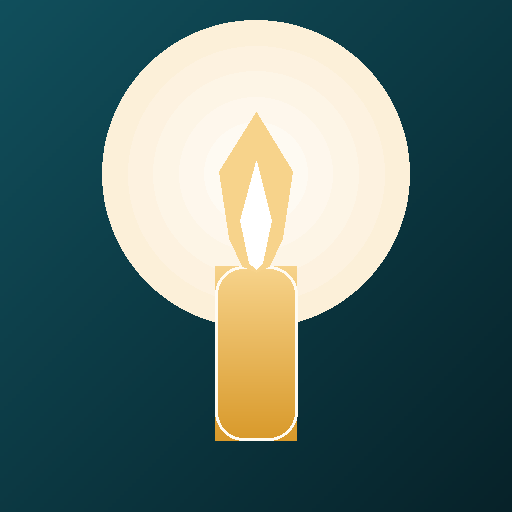
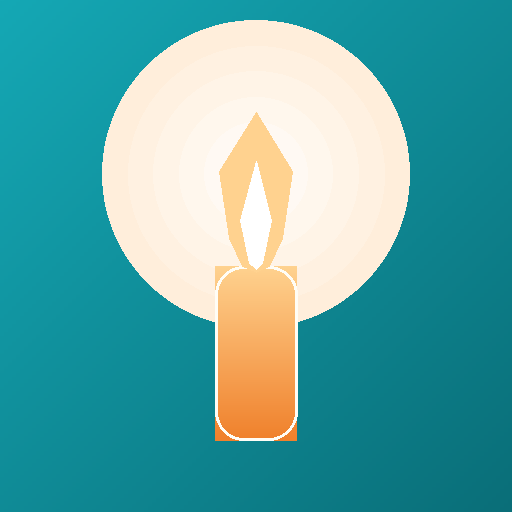
Colorful, cheerful redesign - brighter palette + per-category accent colors
Replaced the moody dark-navy/muted-gold palette (kept as backup at the
teal-gold-design tag) with a brighter turquoise + warm orange scheme,
plus a distinct accent color per category (icons, cover placeholders)
so the page reads as playful and varied rather than a single duotone.

Brightening the shared color scale broke several text/background
contrast pairs (button text, headings, eyebrow labels, hero text on
the lighter hero gradient). Added dedicated --teal-heading/--teal-ink/
--gold-ink tokens for text-on-light-background use, switched button
text to a plain dark ink, and gave the hero its own darker gradient
stops - verified every pair via pixel sampling / WCAG contrast math,
all now >=4.5:1 (or >=3:1 for large headings).

diff --git a/css/style.css b/css/style.css
@@ -1,27 +1,34 @@
 :root {
-  --ink: #1b2c30;
-  --ink-soft: #3c5157;
+  --ink: #23343a;
+  --ink-soft: #4c6067;
 
-  --teal-950: #072229;
-  --teal-900: #0b3b45;
-  --teal-850: #0e4652;
-  --teal-800: #114f5c;
-  --teal-700: #166473;
-  --teal-600: #1c7a8b;
-  --teal-500: #2f9aa3;
-  --teal-300: #8ecfd3;
-  --teal-200: #c7e7e9;
+  --teal-950: #0a6e78;
+  --teal-900: #0f8793;
+  --teal-850: #12959f;
+  --teal-800: #15a8b5;
+  --teal-700: #22bcc7;
+  --teal-600: #3fc9d3;
+  --teal-500: #63d5de;
+  --teal-300: #a8e9ee;
+  --teal-200: #d3f4f6;
 
-  --sand-50: #fffbf2;
-  --sand-100: #fbf2df;
-  --sand-200: #f4e6c8;
+  --sand-50: #fffdf6;
+  --sand-100: #fff5e2;
+  --sand-200: #ffe7bc;
 
-  --gold-700: #b57a1e;
-  --gold-600: #d99a2b;
-  --gold-500: #eab04a;
-  --gold-400: #f3bf5f;
-  --gold-300: #f7d38b;
-  --gold-100: #fdecc8;
+  --gold-700: #c85a1a;
+  --gold-600: #f0812c;
+  --gold-500: #ff9d47;
+  --gold-400: #ffb768;
+  --gold-300: #ffd28f;
+  --gold-100: #ffedcf;
+
+  /* Dark, WCAG-safe variants for text on light backgrounds - the scales
+     above are tuned bright for cheerful decorative use (buttons, icons,
+     gradients) and don't have enough contrast on their own for body text. */
+  --teal-heading: #0b6b76;
+  --teal-ink: #0a7681;
+  --gold-ink: #a8481a;
 
   --white: #ffffff;
 
@@ -87,7 +94,7 @@ h1, h2, h3 {
 
 .btn--primary {
   background: linear-gradient(135deg, var(--gold-400), var(--gold-600));
-  color: var(--teal-950);
+  color: var(--ink);
   box-shadow: 0 10px 24px -8px rgba(217, 154, 43, 0.6);
 }
 .btn--primary:hover { box-shadow: 0 14px 30px -8px rgba(217, 154, 43, 0.75); }
@@ -103,13 +110,13 @@ h1, h2, h3 {
   display: block;
   font-weight: 700;
   letter-spacing: 0.06em;
-  color: var(--gold-700);
+  color: var(--gold-ink);
   font-size: 0.95rem;
   margin-bottom: 0.6em;
 }
 .section-title {
   font-size: clamp(1.8rem, 4vw, 2.6rem);
-  color: var(--teal-900);
+  color: var(--teal-heading);
   margin-bottom: 0.5em;
   line-height: 1.25;
 }
@@ -119,7 +126,7 @@ h1, h2, h3 {
   position: sticky;
   top: 0;
   z-index: 40;
-  background: rgba(11, 59, 69, 0.92);
+  background: rgba(15, 135, 147, 0.92);
   backdrop-filter: blur(8px);
   border-bottom: 1px solid rgba(255, 255, 255, 0.08);
 }
@@ -145,7 +152,7 @@ h1, h2, h3 {
 }
 .brand__mark {
   font-size: 1.05em;
-  filter: drop-shadow(0 0 6px rgba(243, 191, 95, 0.55));
+  filter: drop-shadow(0 0 6px rgba(255, 183, 104, 0.55));
 }
 .site-nav { display: flex; align-items: center; gap: 1.4rem; }
 .site-nav a {
@@ -180,7 +187,7 @@ h1, h2, h3 {
 .install-banner__btn {
   flex-shrink: 0;
   background: var(--gold-400);
-  color: var(--teal-950);
+  color: var(--ink);
   border: none;
   border-radius: 999px;
   padding: 0.55em 1.1em;
@@ -215,7 +222,7 @@ h1, h2, h3 {
   margin: 0 auto;
 }
 .install-steps.is-open { display: block; }
-.install-steps h3 { font-size: 1.1rem; margin-bottom: 0.5em; color: var(--teal-900); }
+.install-steps h3 { font-size: 1.1rem; margin-bottom: 0.5em; color: var(--teal-heading); }
 .install-steps ol { margin: 0; padding-inline-start: 1.2em; line-height: 1.7; }
 .install-steps__close {
   position: absolute;
@@ -244,9 +251,9 @@ h1, h2, h3 {
   inset: 0;
   z-index: 0;
   background:
-    radial-gradient(55% 55% at 22% 20%, rgba(243, 191, 95, 0.20), transparent 60%),
-    radial-gradient(65% 60% at 82% 85%, rgba(142, 207, 211, 0.22), transparent 60%),
-    linear-gradient(160deg, var(--teal-950) 0%, var(--teal-900) 45%, var(--teal-700) 100%);
+    radial-gradient(55% 55% at 22% 20%, rgba(255, 183, 104, 0.28), transparent 60%),
+    radial-gradient(65% 60% at 82% 85%, rgba(168, 233, 238, 0.24), transparent 60%),
+    linear-gradient(160deg, #063d46 0%, #0a5c66 45%, #0f7f8c 100%);
 }
 .hero__content { position: relative; z-index: 2; width: 100%; max-width: 760px; }
 .hero__eyebrow {
@@ -343,7 +350,7 @@ h1, h2, h3 {
   justify-content: center;
   font-size: 1.35rem;
 }
-.cat-pill__title { font-weight: 700; color: var(--teal-900); margin: 0 0 0.2em; font-size: 1.02rem; }
+.cat-pill__title { font-weight: 700; color: var(--teal-heading); margin: 0 0 0.2em; font-size: 1.02rem; }
 .cat-pill__desc { margin: 0; font-size: 0.86rem; color: var(--ink-soft); line-height: 1.5; }
 
 /* ---------- Category sections ---------- */
@@ -376,7 +383,7 @@ h1, h2, h3 {
   font-size: 1.7rem;
   box-shadow: 0 8px 18px -4px rgba(0,0,0,0.3);
 }
-.category-section__title { font-size: clamp(1.5rem, 3.2vw, 2rem); color: var(--teal-900); margin: 0; }
+.category-section__title { font-size: clamp(1.5rem, 3.2vw, 2rem); color: var(--teal-heading); margin: 0; }
 .category-section__tagline {
   color: var(--ink-soft);
   font-size: 1.02rem;
@@ -389,7 +396,7 @@ h1, h2, h3 {
   align-items: center;
   gap: 0.5em;
   font-size: 0.86rem;
-  color: var(--teal-700);
+  color: var(--teal-ink);
   background: var(--teal-200);
   border: 1px dashed var(--teal-500);
   border-radius: 999px;
@@ -445,8 +452,8 @@ h1, h2, h3 {
   align-items: center;
   justify-content: center;
   background: linear-gradient(150deg, var(--teal-800), var(--teal-950));
-  color: var(--gold-300);
-  font-size: 3rem;
+  font-size: 3.4rem;
+  filter: drop-shadow(0 4px 10px rgba(0, 0, 0, 0.18));
 }
 
 .content-card__badge {
@@ -485,14 +492,14 @@ h1, h2, h3 {
   gap: 0.7rem;
 }
 .content-card__eyebrow {
-  color: var(--teal-600);
+  color: var(--teal-ink);
   font-weight: 700;
   font-size: 0.82rem;
   letter-spacing: 0.05em;
 }
 .content-card__title {
   font-size: clamp(1.25rem, 2.4vw, 1.55rem);
-  color: var(--teal-900);
+  color: var(--teal-heading);
   line-height: 1.3;
 }
 .content-card__desc {
@@ -501,7 +508,7 @@ h1, h2, h3 {
   font-size: 0.99rem;
   margin: 0;
 }
-.content-card__desc strong { color: var(--teal-800); }
+.content-card__desc strong { color: var(--teal-ink); }
 
 /* ---------- Audio player ---------- */
 .player {
@@ -531,7 +538,7 @@ h1, h2, h3 {
 }
 .player__btn:hover { transform: scale(1.06); }
 .player__btn:focus-visible { outline: 3px solid var(--gold-500); outline-offset: 2px; }
-.player__btn.is-playing { background: linear-gradient(135deg, var(--gold-400), var(--gold-600)); color: var(--teal-950); }
+.player__btn.is-playing { background: linear-gradient(135deg, var(--gold-400), var(--gold-600)); color: var(--ink); }
 
 .player__body { flex: 1 1 auto; min-width: 0; }
 .player__seek {
@@ -634,7 +641,7 @@ h1, h2, h3 {
   font-size: 1.3rem;
   margin-bottom: 0.6em;
 }
-.site-footer__note { color: var(--teal-300); font-size: 0.95rem; max-width: 480px; margin: 0 auto; }
+.site-footer__note { color: var(--sand-200); font-size: 0.95rem; max-width: 480px; margin: 0 auto; }
 
 /* ---------- Lightbox ---------- */
 .lightbox {

diff --git a/js/app.js b/js/app.js
@@ -16,6 +16,7 @@ const CATEGORIES = [
     id: "tzadikim",
     name: "זה קרה באמת",
     icon: "🕯",
+    color: "#f0812c",
     type: "audio",
     tagline: "סיפורים מהחיים, מפי מספרים, על גדולי ישראל וצדיקי הדורות - אמונה, מידות טובות ואהבת ישראל.",
     episodes: [
@@ -39,6 +40,7 @@ const CATEGORIES = [
     id: "wonders",
     name: "נפלאות הבריאה",
     icon: "🦋",
+    color: "#4caf6d",
     type: "audio",
     tagline: "סיורים קוליים בעולם הטבע - בעלי חיים, צמחים ותופעות מדהימות, שמראות איך הכול נברא בחוכמה.",
     episodes: [
@@ -62,6 +64,7 @@ const CATEGORIES = [
     id: "parasha-what",
     name: "מה בפרשה",
     icon: "📜",
+    color: "#3aa8e0",
     type: "audio",
     tagline: "סיפור פרשת השבוע בשפה פשוטה וברורה - פרק קצר שאפשר להקשיב לו בדרך לבית הספר.",
     episodes: [
@@ -85,6 +88,7 @@ const CATEGORIES = [
     id: "parasha-idea",
     name: "רעיון בפרשה",
     icon: "💡",
+    color: "#f2c230",
     type: "audio",
     tagline: "רעיון אחד, עמוק ומעשי, שיוצא היישר מתוך פרשת השבוע.",
     episodes: [
@@ -108,6 +112,7 @@ const CATEGORIES = [
     id: "enlightenment",
     name: "אור בהשכלה",
     icon: "📚",
+    color: "#9b6fd1",
     type: "audio",
     tagline: "ידע כללי ומדע, מוגשים בטוב טעם, כדי להרחיב אופקים בלי לאבד את הזהות.",
     episodes: [
@@ -131,6 +136,7 @@ const CATEGORIES = [
     id: "spot-diff",
     name: "מצא את ההבדלים",
     icon: "🔍",
+    color: "#f26d7d",
     type: "spot-diff",
     tagline: "משחק תמונות - השוו בין שתי התמונות ומצאו את כל ההבדלים ביניהן.",
     episodes: [
@@ -156,6 +162,7 @@ const CATEGORIES = [
     id: "what-to-do",
     name: "מה לעשו״ת?",
     icon: "❓",
+    color: "#22bcc7",
     type: "audio",
     tagline: "שאלה הלכתית לילדים, עם התשובה - הכול מוקרא יחד בהקלטה אחת.",
     episodes: [
@@ -207,7 +214,7 @@ function renderCatNav() {
   grid.innerHTML = CATEGORIES.map(
     (cat) => `
     <a class="cat-pill" href="#cat-${cat.id}">
-      <span class="cat-pill__icon" aria-hidden="true">${cat.icon}</span>
+      <span class="cat-pill__icon" aria-hidden="true" style="background:${cat.color}">${cat.icon}</span>
       <span>
         <span class="cat-pill__title">${cat.name}</span>
         <p class="cat-pill__desc">${cat.episodes.length} תכנים</p>
@@ -231,7 +238,7 @@ function mediaHTML(cat, ep, idx) {
   return `
       <div class="content-card__media">
         ${badge}
-        <div class="cover-placeholder"><span aria-hidden="true">${cat.icon}</span></div>
+        <div class="cover-placeholder" style="background: linear-gradient(150deg, color-mix(in srgb, ${cat.color} 65%, white), ${cat.color})"><span aria-hidden="true">${cat.icon}</span></div>
       </div>`;
 }
 
@@ -316,7 +323,7 @@ function renderCategorySections() {
     <section class="category-section" id="cat-${cat.id}">
       <div class="category-section__inner">
         <div class="category-section__head">
-          <span class="category-section__icon" aria-hidden="true">${cat.icon}</span>
+          <span class="category-section__icon" aria-hidden="true" style="background:${cat.color}">${cat.icon}</span>
           <h2 class="category-section__title">${cat.name}</h2>
         </div>
         <p class="category-section__tagline">${cat.tagline}</p>

diff --git a/index.html b/index.html
@@ -5,7 +5,7 @@
 <meta name="viewport" content="width=device-width, initial-scale=1, viewport-fit=cover">
 <title>זה קרה באמת</title>
 <meta name="description" content="זה קרה באמת - הקלטות להאזנה לילדים ולכל המשפחה: סיפורי צדיקים, נפלאות הבריאה, פרשת השבוע, ידע מעניין ומשחקים.">
-<meta name="theme-color" content="#0b3b45">
+<meta name="theme-color" content="#0f8793">
 <link rel="manifest" href="manifest.json">
 <link rel="icon" href="icons/favicon-32.png" sizes="32x32" type="image/png">
 <link rel="icon" href="icons/favicon-16.png" sizes="16x16" type="image/png">
